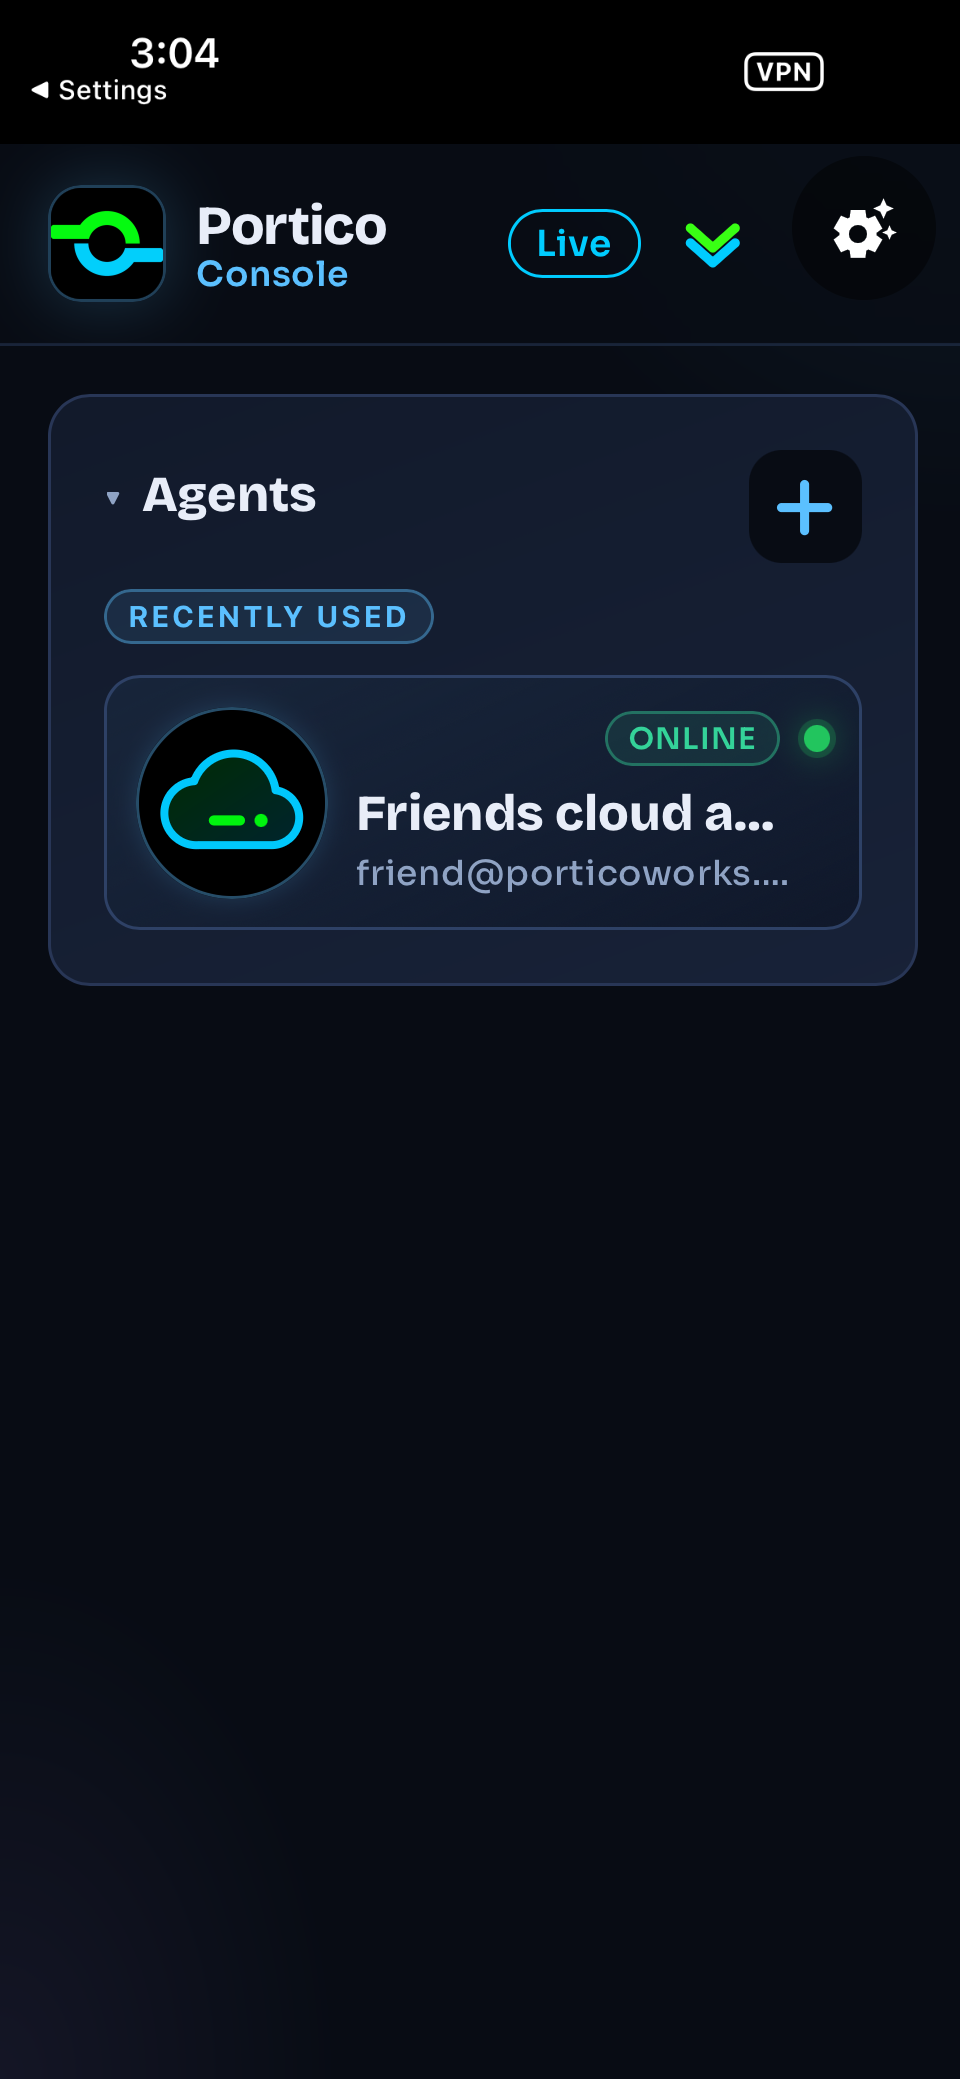
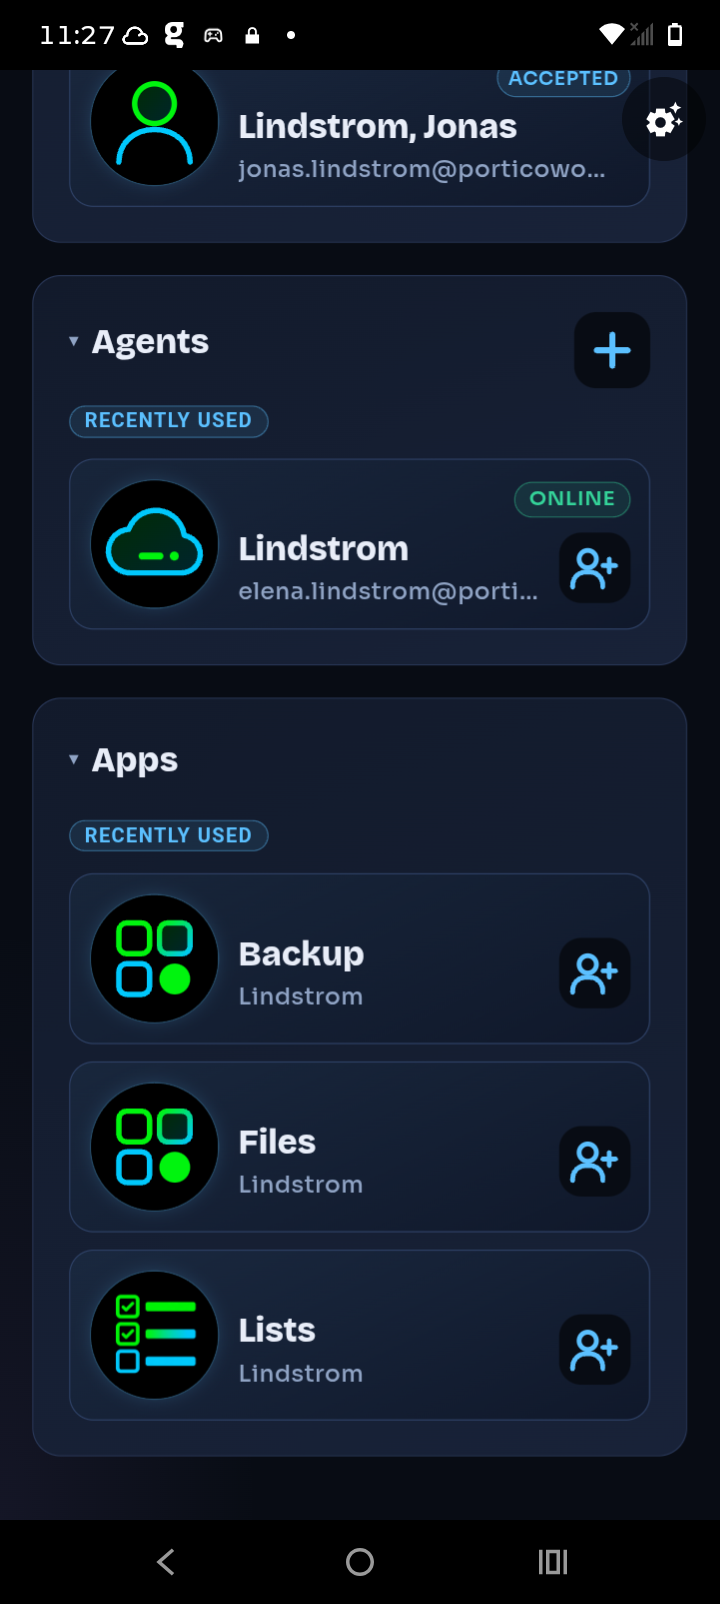
Show the Lindstrom household in the grocery and chores journeys.
The users label now matches Elena, Amara, and Jonas on the filed screenshot.

diff --git a/journeys/chores/index.html b/journeys/chores/index.html
@@ -157,7 +157,7 @@
             </div>
             <div class="shots">
               <figure class="shot" data-shot="05-users.png">
-                <div class="shot-frame"><span class="shot-label">The Users panel listing Mom, Dad, Amara, and Tobi</span><code>05-users.png</code></div>
+                <div class="shot-frame"><span class="shot-label">The Users panel listing Elena, Amara, and Jonas</span><code>05-users.png</code></div>
               </figure>
             </div>
           </div>
